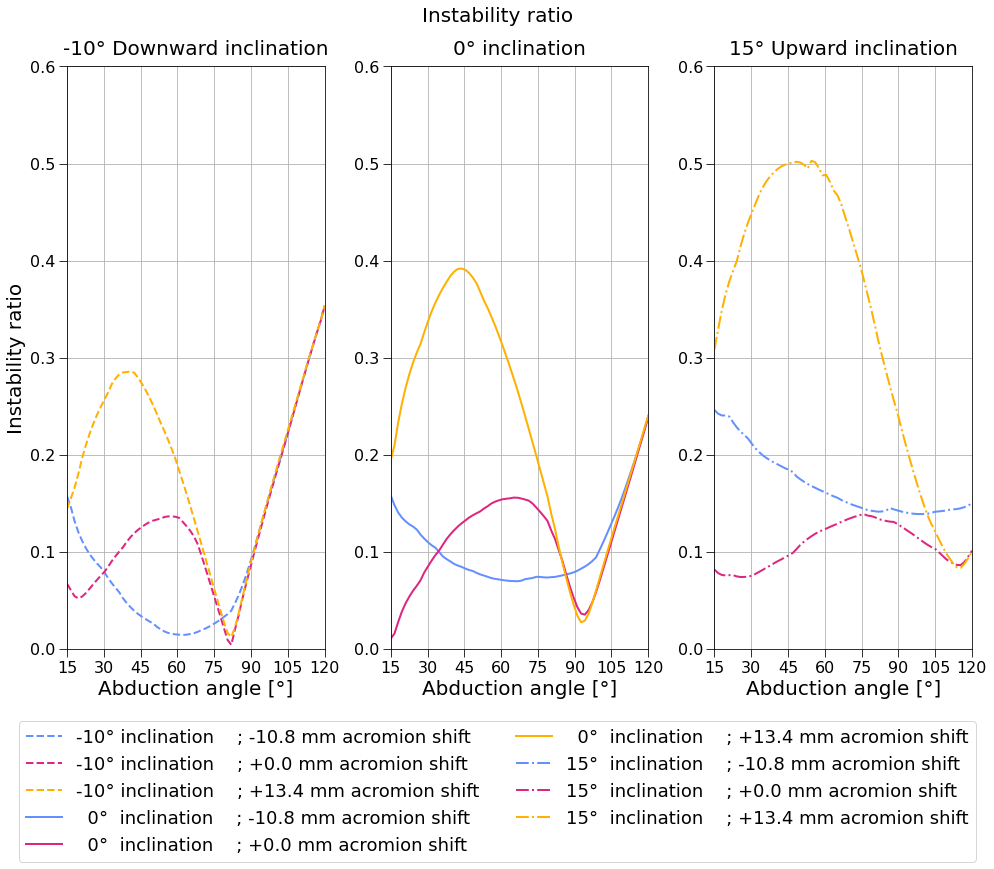
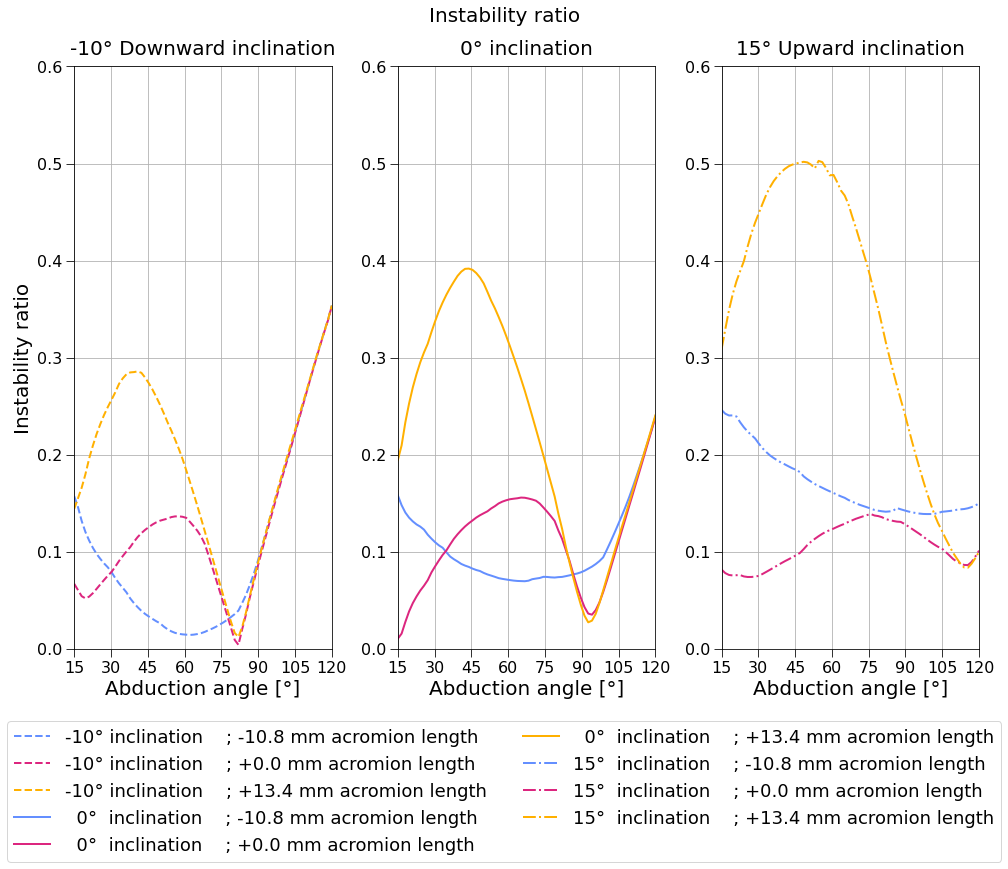
typo graph

diff --git a/Application/Output/Analyse Resultats/Graphiques.py b/Application/Output/Analyse Resultats/Graphiques.py
@@ -174,78 +174,78 @@ SimulationsLineStyleDictionary = {
 
 SimulationDescriptionDictionary = {
     # Nom des cas de simulation
-    "xdown-xshort": "-10° inclination    ; -10.8 mm acromion shift",
-    "xdown-short": "-10° inclination    ; -5.7 mm acromion shift",
-    "xdown-normal": "-10° inclination    ; +0.0 mm acromion shift",
-    "xdown-long": "-10° inclination    ; +6.6 mm acromion shift",
-    "xdown-xlong": "-10° inclination    ; +13.4 mm acromion shift",
+    "xdown-xshort": "-10° inclination    ; -10.8 mm acromion length",
+    "xdown-short": "-10° inclination    ; -5.7 mm acromion length",
+    "xdown-normal": "-10° inclination    ; +0.0 mm acromion length",
+    "xdown-long": "-10° inclination    ; +6.6 mm acromion length",
+    "xdown-xlong": "-10° inclination    ; +13.4 mm acromion length",
 
-    "down-xshort": "-5° inclination    ; -10.8 mm acromion shift",
-    "down-short": "-5° inclination    ; -5.7 mm acromion shift",
-    "down-normal": "-5° inclination    ; +0.0 mm acromion shift",
-    "down-long": "-5° inclination    ; +6.6 mm acromion shift",
-    "down-xlong": "-5° inclination    ; +13.4 mm acromion shift",
+    "down-xshort": "-5° inclination    ; -10.8 mm acromion length",
+    "down-short": "-5° inclination    ; -5.7 mm acromion length",
+    "down-normal": "-5° inclination    ; +0.0 mm acromion length",
+    "down-long": "-5° inclination    ; +6.6 mm acromion length",
+    "down-xlong": "-5° inclination    ; +13.4 mm acromion length",
 
-    "middle-xshort": "5° inclination     ; -10.8 mm acromion shift",
-    "middle-short": "5° inclination     ; -5.7 mm acromion shift",
-    "middle-normal": "5° inclination     ; +0.0 mm acromion shift",
-    "middle-long": "5° inclination     ; +6.6 mm acromion shift",
-    "middle-xlong": "5° inclination     ; +13.4 mm acromion shift",
+    "middle-xshort": "5° inclination     ; -10.8 mm acromion length",
+    "middle-short": "5° inclination     ; -5.7 mm acromion length",
+    "middle-normal": "5° inclination     ; +0.0 mm acromion length",
+    "middle-long": "5° inclination     ; +6.6 mm acromion length",
+    "middle-xlong": "5° inclination     ; +13.4 mm acromion length",
 
-    "neutral-xshort": "  0°  inclination    ; -10.8 mm acromion shift",
-    "neutral-short": "  0°  inclination    ; -5.7 mm acromion shift",
-    "neutral-normal": "  0°  inclination    ; +0.0 mm acromion shift",
-    "neutral-long": "  0°  inclination    ; +6.6 mm acromion shift",
-    "neutral-xlong": "  0°  inclination    ; +13.4 mm acromion shift",
+    "neutral-xshort": "  0°  inclination    ; -10.8 mm acromion length",
+    "neutral-short": "  0°  inclination    ; -5.7 mm acromion length",
+    "neutral-normal": "  0°  inclination    ; +0.0 mm acromion length",
+    "neutral-long": "  0°  inclination    ; +6.6 mm acromion length",
+    "neutral-xlong": "  0°  inclination    ; +13.4 mm acromion length",
 
-    "up-xshort": "10° inclination     ; -10.8 mm acromion shift",
-    "up-short": "10° inclination     ; -5.7 mm acromion shift",
-    "up-normal": "10° inclination     ; +0.0 mm acromion shift",
-    "up-long": "10° inclination     ; +6.6 mm acromion shift",
-    "up-xlong": "10° inclination     ; +13.4 mm acromion shift",
+    "up-xshort": "10° inclination     ; -10.8 mm acromion length",
+    "up-short": "10° inclination     ; -5.7 mm acromion length",
+    "up-normal": "10° inclination     ; +0.0 mm acromion length",
+    "up-long": "10° inclination     ; +6.6 mm acromion length",
+    "up-xlong": "10° inclination     ; +13.4 mm acromion length",
 
-    "xup-xshort": "15°  inclination    ; -10.8 mm acromion shift",
-    "xup-short": "15°  inclination    ; -5.7 mm acromion shift",
-    "xup-normal": "15°  inclination    ; +0.0 mm acromion shift",
-    "xup-long": "15°  inclination    ; +6.6 mm acromion shift",
-    "xup-xlong": "15°  inclination    ; +13.4 mm acromion shift",
+    "xup-xshort": "15°  inclination    ; -10.8 mm acromion length",
+    "xup-short": "15°  inclination    ; -5.7 mm acromion length",
+    "xup-normal": "15°  inclination    ; +0.0 mm acromion length",
+    "xup-long": "15°  inclination    ; +6.6 mm acromion length",
+    "xup-xlong": "15°  inclination    ; +13.4 mm acromion length",
 
     # # Nom des cas de simulation
-    # "xdown-xshort": "CSA = 12° : -10° inclination    ; -10.8 mm acromion shift",
-    # "xdown-short": "CSA = 16° : -10° inclination    ; -5.7 mm acromion shift",
-    # "xdown-normal": "CSA = 20° : -10° inclination    ; +0.0 mm acromion shift",
-    # "xdown-long": "CSA = 23° : -10° inclination    ; +6.6 mm acromion shift",
-    # "xdown-xlong": "CSA = 31° : -10° inclination    ; +13.4 mm acromion shift",
+    # "xdown-xshort": "CSA = 12° : -10° inclination    ; -10.8 mm acromion length",
+    # "xdown-short": "CSA = 16° : -10° inclination    ; -5.7 mm acromion length",
+    # "xdown-normal": "CSA = 20° : -10° inclination    ; +0.0 mm acromion length",
+    # "xdown-long": "CSA = 23° : -10° inclination    ; +6.6 mm acromion length",
+    # "xdown-xlong": "CSA = 31° : -10° inclination    ; +13.4 mm acromion length",
 
-    # "down-xshort": "CSA = 16° : -5° inclination    ; -10.8 mm acromion shift",
-    # "down-short": "CSA = 20° : -5° inclination    ; -5.7 mm acromion shift",
-    # "down-normal": "CSA = 23° : -5° inclination    ; +0.0 mm acromion shift",
-    # "down-long": "CSA = 31° : -5° inclination    ; +6.6 mm acromion shift",
-    # "down-xlong": "CSA = 36° : -5° inclination    ; +13.4 mm acromion shift",
+    # "down-xshort": "CSA = 16° : -5° inclination    ; -10.8 mm acromion length",
+    # "down-short": "CSA = 20° : -5° inclination    ; -5.7 mm acromion length",
+    # "down-normal": "CSA = 23° : -5° inclination    ; +0.0 mm acromion length",
+    # "down-long": "CSA = 31° : -5° inclination    ; +6.6 mm acromion length",
+    # "down-xlong": "CSA = 36° : -5° inclination    ; +13.4 mm acromion length",
 
-    # "middle-xshort": "CSA = 20° : 5° inclination     ; -10.8 mm acromion shift",
-    # "middle-short": "CSA = 23° : 5° inclination     ; -5.7 mm acromion shift",
-    # "middle-normal": "CSA = 31° : 5° inclination     ; +0.0 mm acromion shift",
-    # "middle-long": "CSA = 36° : 5° inclination     ; +6.6 mm acromion shift",
-    # "middle-xlong": "CSA = 40° : 5° inclination     ; +13.4 mm acromion shift",
+    # "middle-xshort": "CSA = 20° : 5° inclination     ; -10.8 mm acromion length",
+    # "middle-short": "CSA = 23° : 5° inclination     ; -5.7 mm acromion length",
+    # "middle-normal": "CSA = 31° : 5° inclination     ; +0.0 mm acromion length",
+    # "middle-long": "CSA = 36° : 5° inclination     ; +6.6 mm acromion length",
+    # "middle-xlong": "CSA = 40° : 5° inclination     ; +13.4 mm acromion length",
 
-    # "neutral-xshort": "CSA = 20° : 0.0° inclination    ; -10.8 mm acromion shift",
-    # "neutral-short": "CSA = 23° : 0.0° inclination    ; -5.7 mm acromion shift",
-    # "neutral-normal": "CSA = 31° : 0.0° inclination    ; +0.0 mm acromion shift",
-    # "neutral-long": "CSA = 36° : 0.0° inclination    ; +6.6 mm acromion shift",
-    # "neutral-xlong": "CSA = 40° : 0.0° inclination    ; +13.4 mm acromion shift",
+    # "neutral-xshort": "CSA = 20° : 0.0° inclination    ; -10.8 mm acromion length",
+    # "neutral-short": "CSA = 23° : 0.0° inclination    ; -5.7 mm acromion length",
+    # "neutral-normal": "CSA = 31° : 0.0° inclination    ; +0.0 mm acromion length",
+    # "neutral-long": "CSA = 36° : 0.0° inclination    ; +6.6 mm acromion length",
+    # "neutral-xlong": "CSA = 40° : 0.0° inclination    ; +13.4 mm acromion length",
 
-    # "up-xshort": "CSA = 23° : 10° inclination     ; -10.8 mm acromion shift",
-    # "up-short": "CSA = 31° : 10° inclination     ; -5.7 mm acromion shift",
-    # "up-normal": "CSA = 36° : 10° inclination     ; +0.0 mm acromion shift",
-    # "up-long": "CSA = 40° : 10° inclination     ; +6.6 mm acromion shift",
-    # "up-xlong": "CSA = 46° : 10° inclination     ; +13.4 mm acromion shift",
+    # "up-xshort": "CSA = 23° : 10° inclination     ; -10.8 mm acromion length",
+    # "up-short": "CSA = 31° : 10° inclination     ; -5.7 mm acromion length",
+    # "up-normal": "CSA = 36° : 10° inclination     ; +0.0 mm acromion length",
+    # "up-long": "CSA = 40° : 10° inclination     ; +6.6 mm acromion length",
+    # "up-xlong": "CSA = 46° : 10° inclination     ; +13.4 mm acromion length",
 
-    # "xup-xshort": "CSA = 31° : 15° inclination     ; -10.8 mm acromion shift",
-    # "xup-short": "CSA = 36° : 15° inclination     ; -5.7 mm acromion shift",
-    # "xup-normal": "CSA = 40° : 15° inclination     ; +0.0 mm acromion shift",
-    # "xup-long": "CSA = 46° : 15° inclination     ; +6.6 mm acromion shift",
-    # "xup-xlong": "CSA = 48° : 15° inclination     ; +13.4 mm acromion shift",
+    # "xup-xshort": "CSA = 31° : 15° inclination     ; -10.8 mm acromion length",
+    # "xup-short": "CSA = 36° : 15° inclination     ; -5.7 mm acromion length",
+    # "xup-normal": "CSA = 40° : 15° inclination     ; +0.0 mm acromion length",
+    # "xup-long": "CSA = 46° : 15° inclination     ; +6.6 mm acromion length",
+    # "xup-xlong": "CSA = 48° : 15° inclination     ; +13.4 mm acromion length",
 
     # Nom des composantes
     "AP": "Axe antéropostérieur (Anterior = +)",
